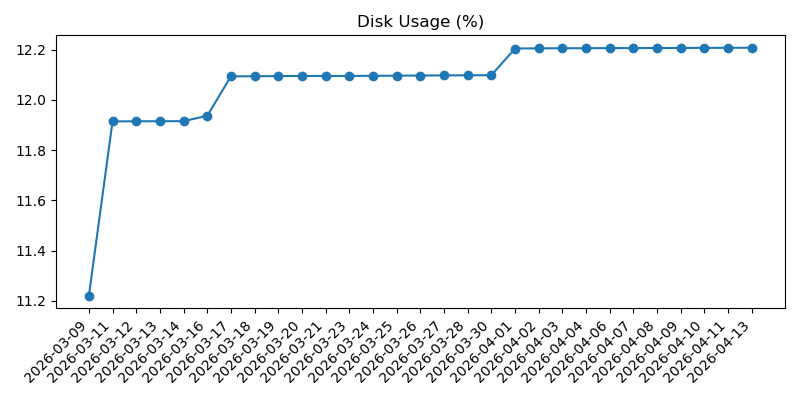
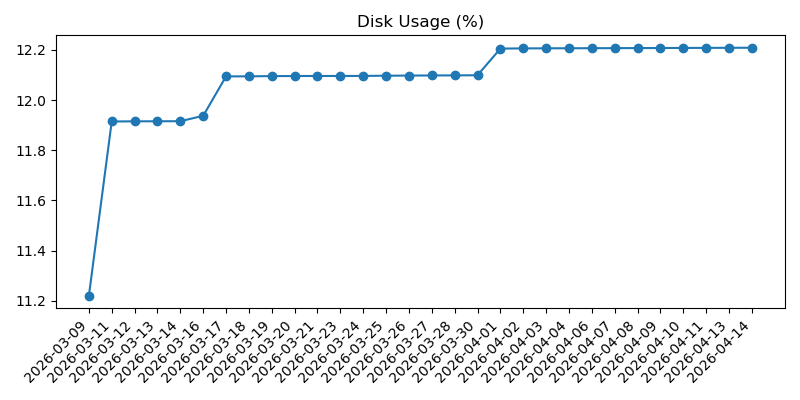
Update Pi daily status

diff --git a/2026-04.md b/2026-04.md
@@ -374,3 +374,37 @@
 - Overall: Good
 - Warning: None
 
+## 2026-04-14 12:24:57
+
+### Machine
+- Uptime: up 1 week, 6 days, 22 hours, 21 minutes
+- CPU load (1m, 5m, 15m): 0.00, 0.00, 0.00
+- RAM used: 168 MB / 921 MB (18.2%)
+- Disk used (/): 3.5 GB / 28.8 GB (12.2%)
+- Free disk space (/): 24.1 GB
+- CPU temp: 37.0°C
+- Voltage / throttling: OK
+
+### Reachability
+- Internet check (1.1.1.1): Reachable (3.3 ms)
+
+### Weather
+- Madrid:
+  - Condition: Despejado
+  - Max temp: 21°C
+  - Min temp: 10°C
+  - Feels like: 14°C
+  - Chance of rain: 0%
+  - Warnings: None reported
+- Barcelona:
+  - Condition: Despejado
+  - Max temp: 19°C
+  - Min temp: 10°C
+  - Feels like: 15°C
+  - Chance of rain: 0%
+  - Warnings: None reported
+
+### Health
+- Overall: Good
+- Warning: None
+
